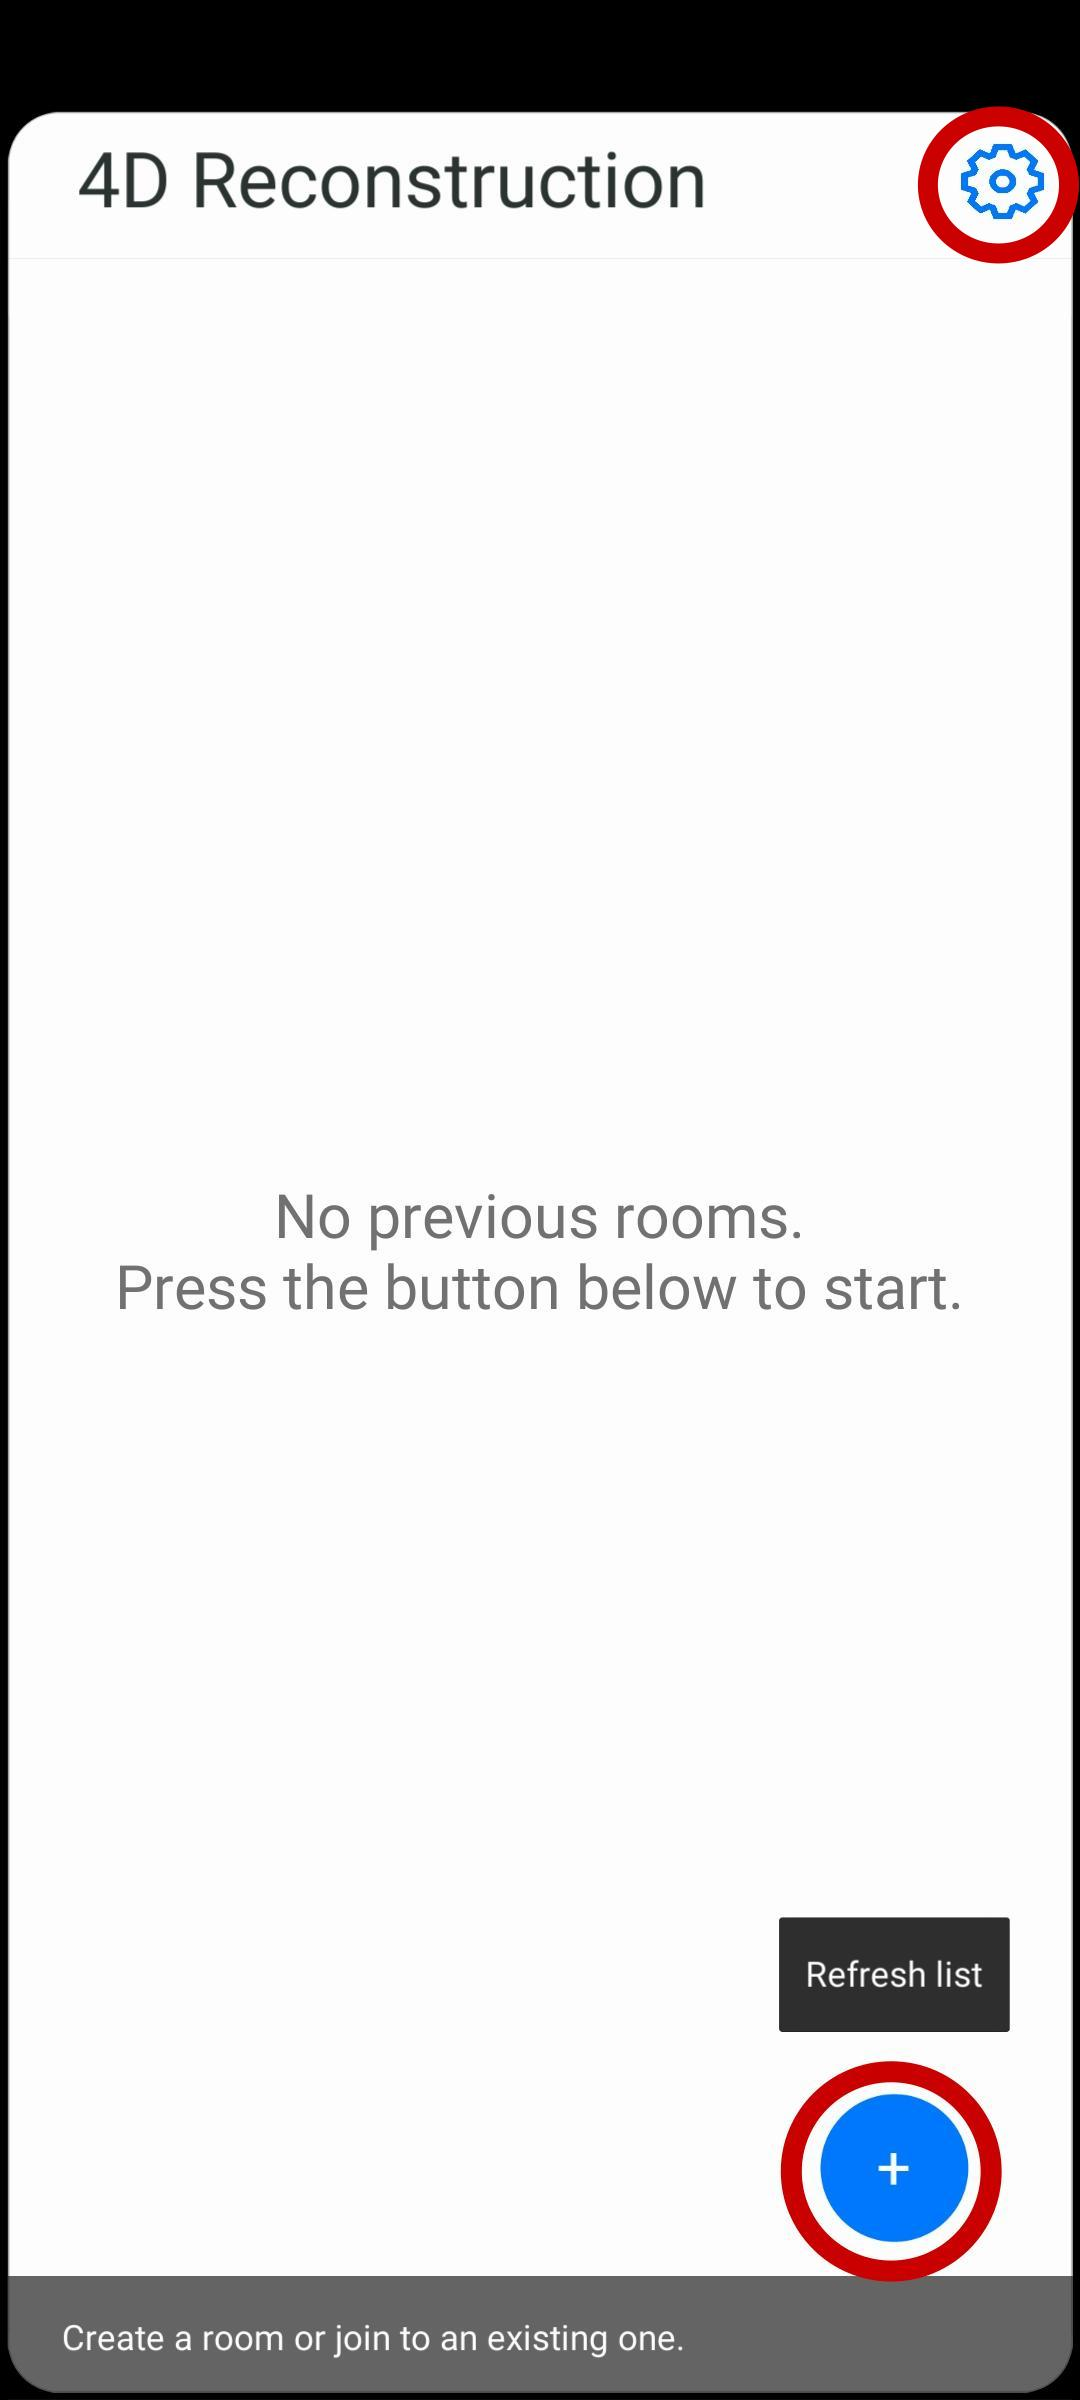
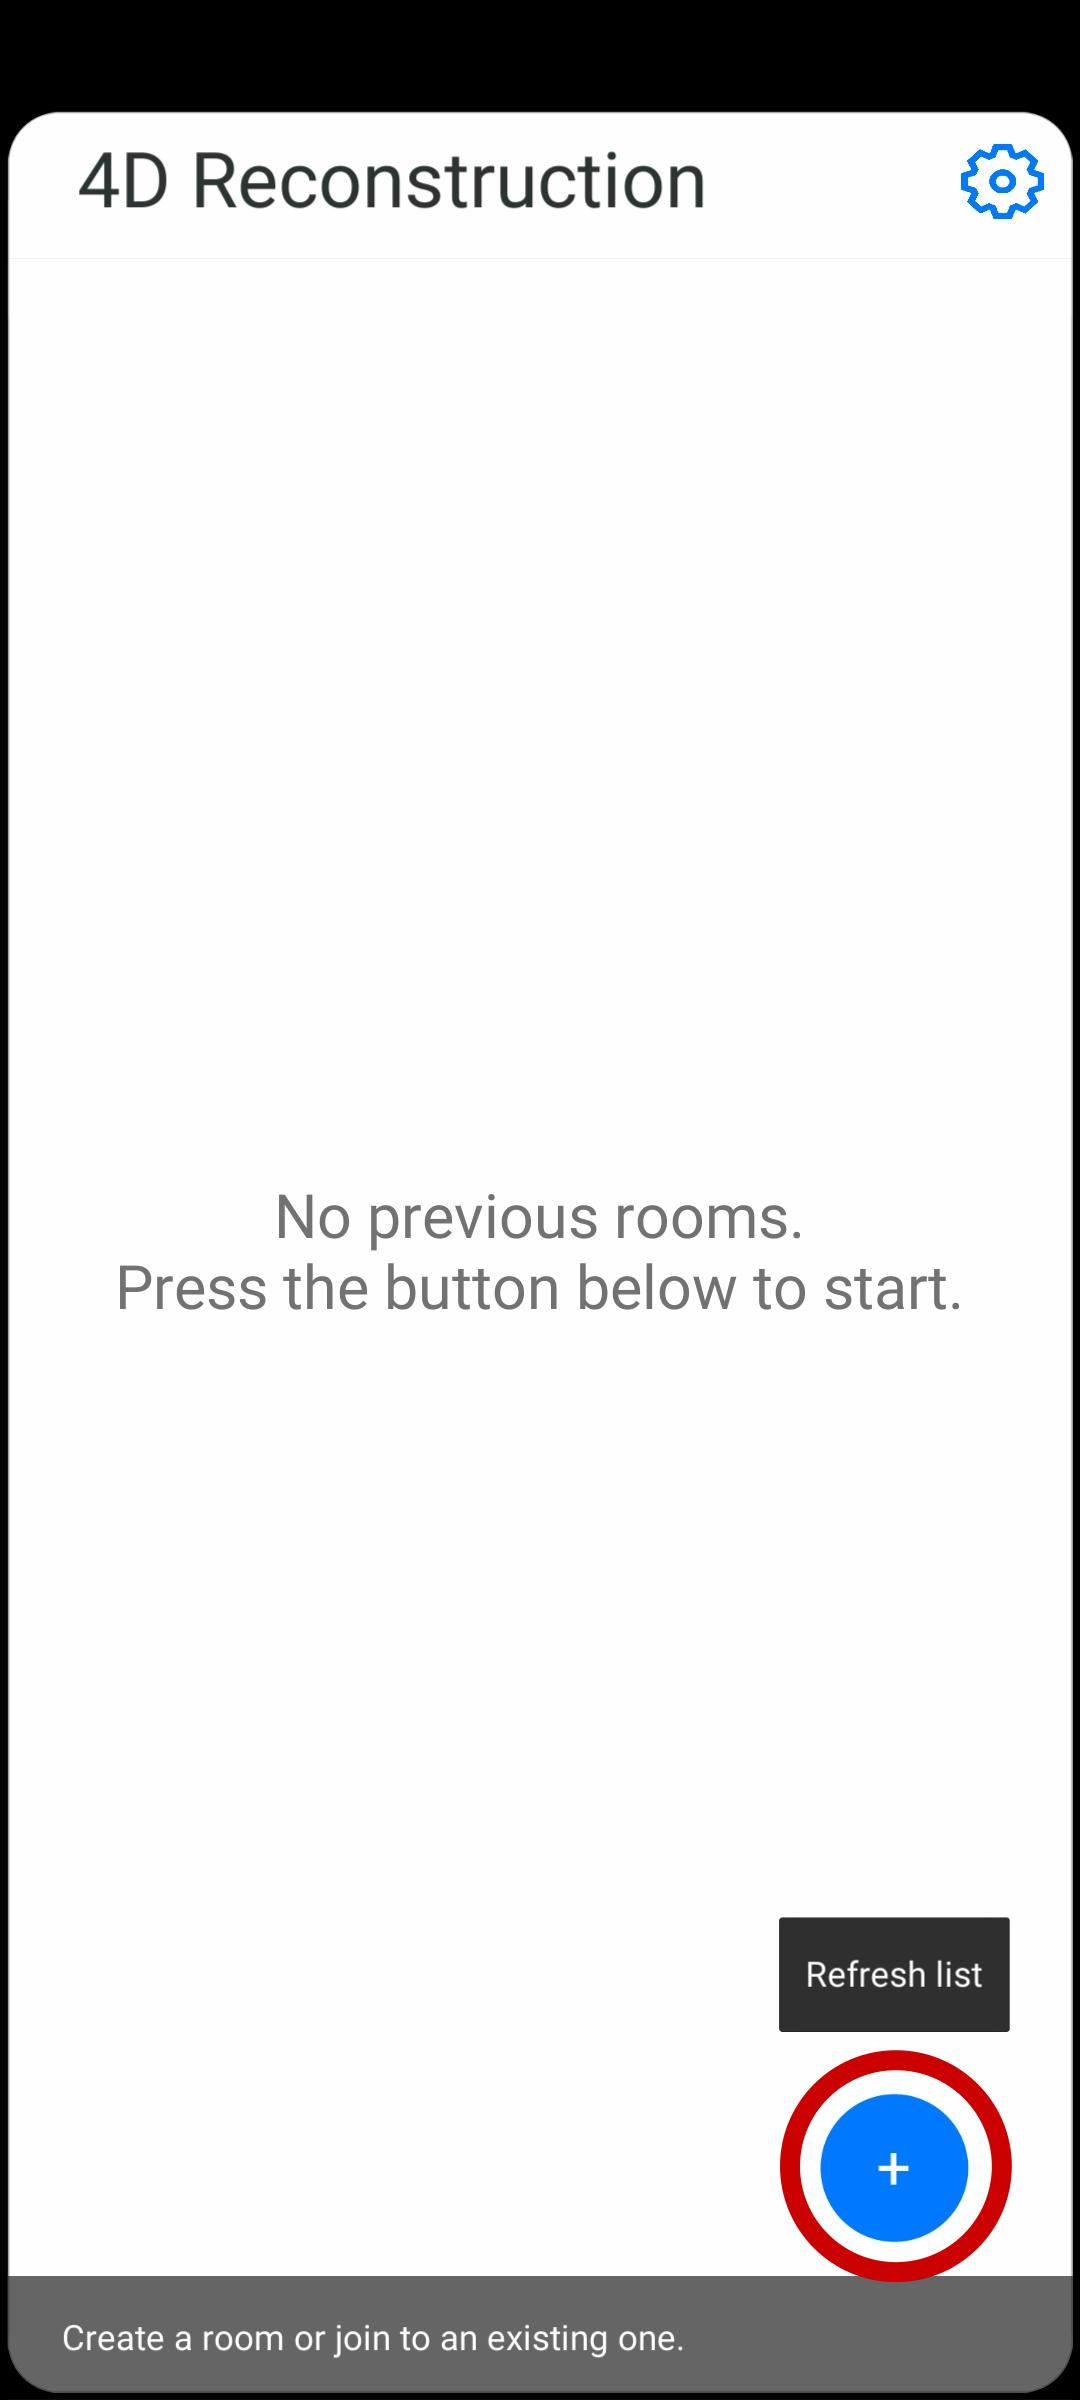
Finish usage

Changed region(s): [[0.825, 0.0312, 1.0, 0.125], [0.7333, 0.8438, 0.9472, 0.9375], [0.825, 0.9375, 0.8861, 0.9688]]

diff --git a/doc/usage/Android_application.md b/doc/usage/Android_application.md
@@ -2,11 +2,11 @@
 
 Once the application was installed, if you start you should see the main screen:
 
-![Main page of the Android application](img/main_page.jpg)
+![Main page of the Android application](img/main_page.jpg | height=400)
 
 On the top you can see the button that open the setting page:
 
-![Main page of the Android application with highlighted the setting button on the top right](img/main_page_settings_highlight.jpg)
+![Main page of the Android application with highlighted the setting button on the top right](img/main_page_settings_highlight.jpg | height=400)
 
 The first time it is necessary to set or regulate inside the settings of each phone that participate to the session, a series of parameters:
 
@@ -20,10 +20,22 @@ The first time it is necessary to set or regulate inside the settings of each ph
 
 Once you setup the paprameters, you can press the done button at the bottom of the screen.
 
-![Settings page of the Android application](img/settings.jpg)
+![Settings page of the Android application](img/settings.jpg | height=400)
 
 To create a new session the host need to press the plus sign on the bottom right:
 
-![Main page of the Android application with highlighted the new session button on the bottom right](img/main_page_new_session_highlight.jpg)
+![Main page of the Android application with highlighted the new session button on the bottom right](img/main_page_new_session_highlight.jpg | height=400)
 
-Now the other clients can join the created session
+Now the other clients can join the created session using the ```join``` button, if the session is not shown it is possible to refresh the list using the button on bottom left
+
+![Main page of the Android application with highlighted the refresh list button on the bottom right](img/main_page_refresh_highlight.jpg | height=400)
+
+Once inside the session each client start mapping the scene, once the scene is fully mapped and all the people are entered, the host can place the anchor by pressing to a plane.
+
+Once placed after few seconds the recording button will be shown on the screen.
+
+![Example of the view before the recording started](img/recording_started.jpg | height=400)
+
+To end the recording the host must press the stop button
+
+![Example of the view with the stop button](img/recording_in_progress.jpg | height=400)
